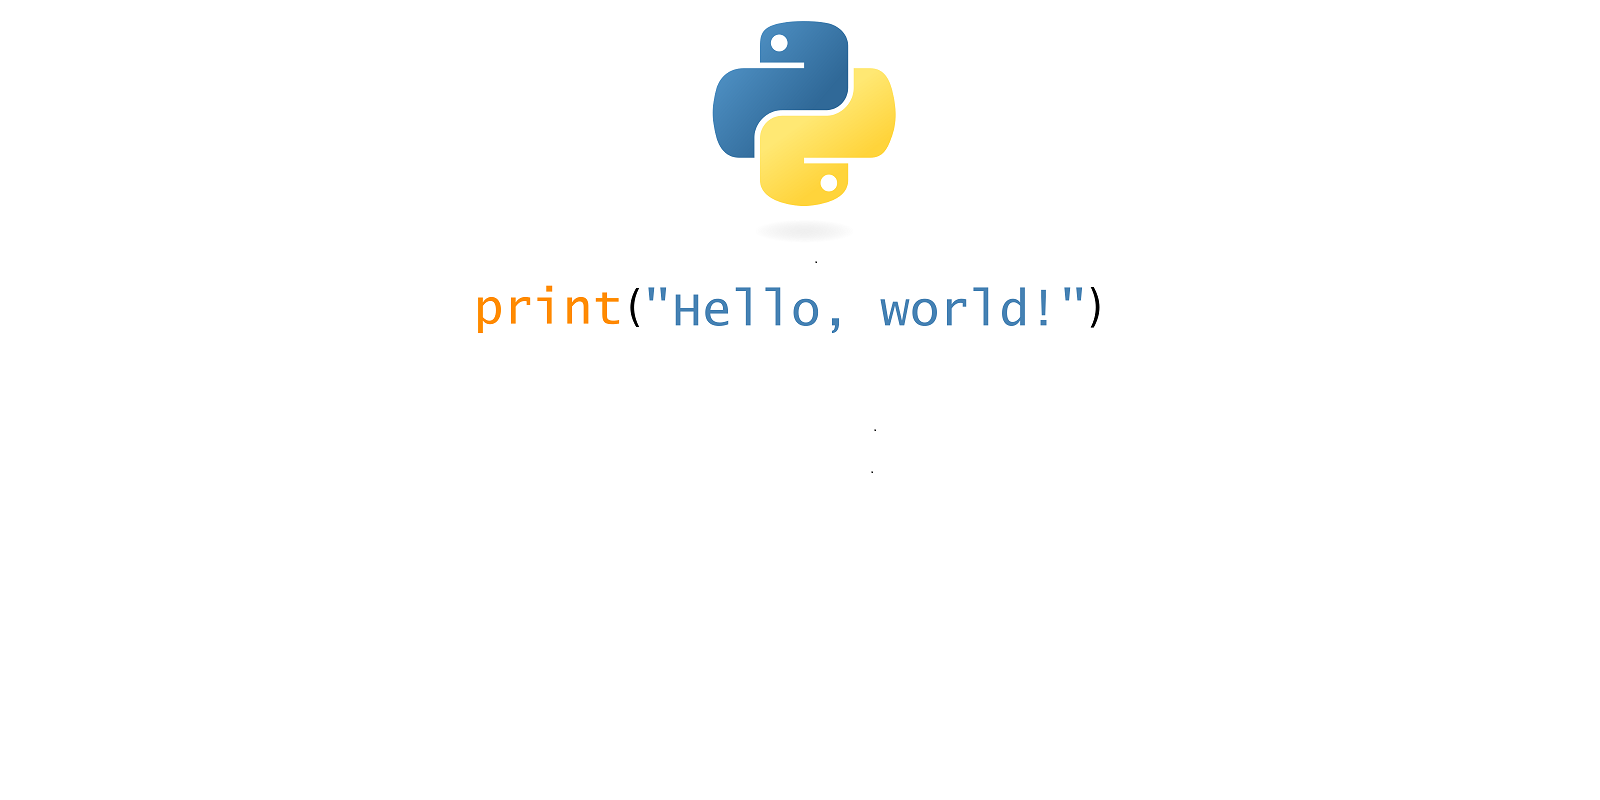
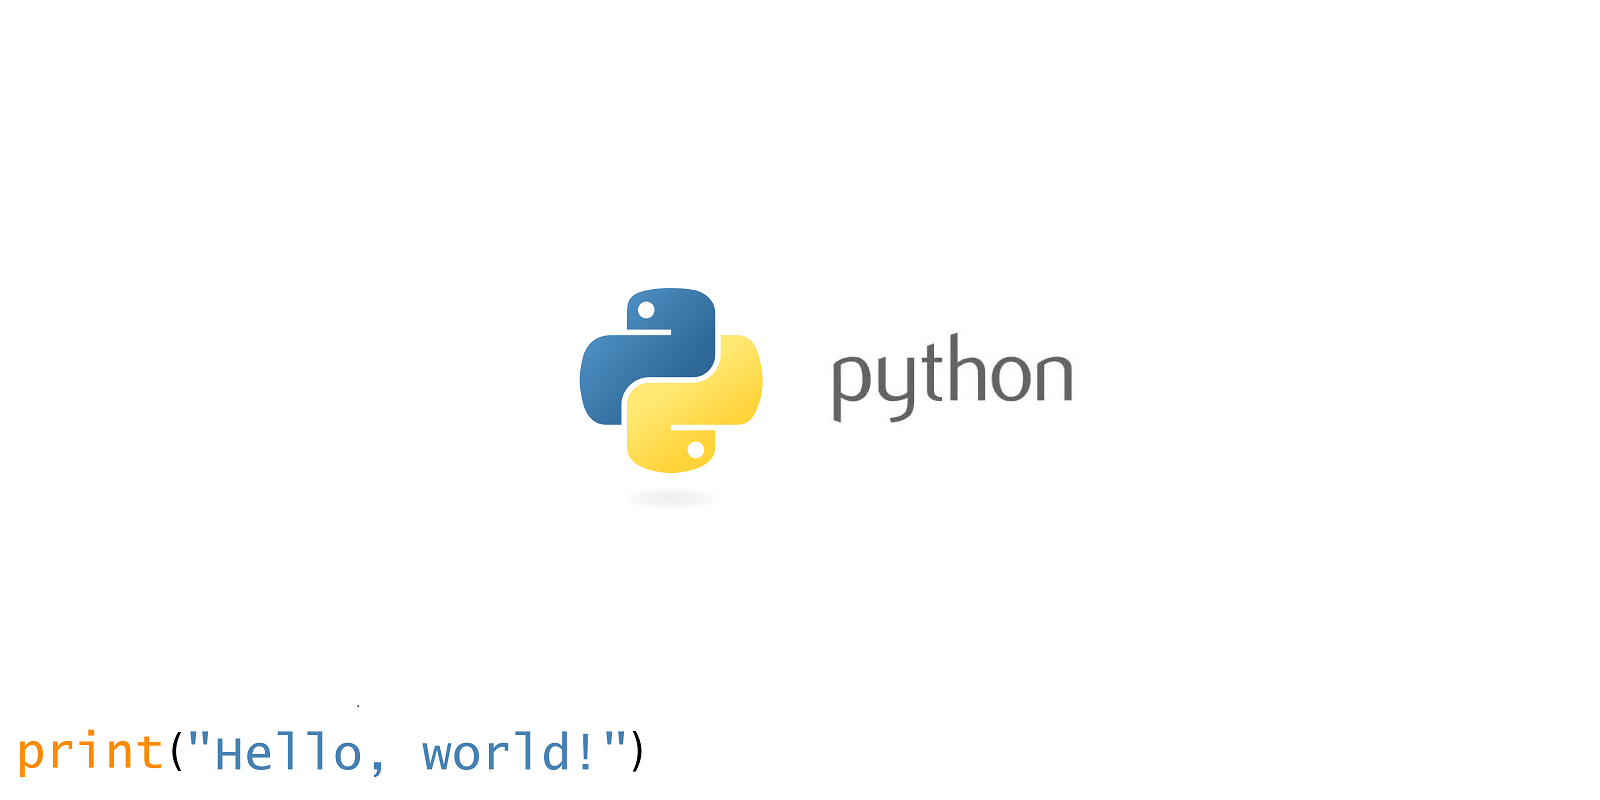
add post

Changed region(s): [[0.2812, 0.3438, 0.6875, 0.5938], [0.4375, 0.0312, 0.5625, 0.2812], [0.0, 0.9062, 0.4062, 0.9688]]

diff --git a/_posts/PyTorchTP/2018-03-08-PyTorch Taiwan.md b/_posts/PyTorchTP/2018-03-08-PyTorch Taiwan.md
@@ -1,0 +1,78 @@
+---
+layout: article
+title: "PyTorch Taipei 2018"
+modified:
+categories: articles
+excerpt: ""
+tags: [PyTorchTPMenu]
+image:
+  feature: 
+  teaser: PyTorchTP/pytp1.jpg
+  thumb: PyTorchTP/pytp1.jpg
+date: 2018-03-09
+---
+
+### 緣起: PyTorch Taiwan
+
+[PyTorch Taiwan](https://www.facebook.com/groups/2027602154187130/){:target="_blank"}是[Marcel Wang](https://www.linkedin.com/in/marcel-wang-3a988b7a/){:target="_blank"}先生為促進台灣深度學習發展，在網路上號召成立的深度學習讀書會，目前有[PyTorch Taipei](http://hemingwang.blogspot.tw/2018/01/pytorchpytorch-taipei_20.html){:target="_blank"}和[PyTorch Hsinchu](http://hemingwang.blogspot.tw/2018/01/pytorchpytorch-hsinchu.html){:target="_blank"}兩個子分會。
+
+### PyTorch Taipei
+時間: 每週四19:00~21:00
+
+內容: 
+
+1. 經典論文導讀
+ - 預計進行18周(共19篇論文)
+ - 參加者建議已具備ML/DL基礎知識
+ 
+2. PyTorch實作
+ - 由台大CS+X計畫負責人[Pecu老師](https://github.com/pecu){:target="_blank"}及其團隊負責帶領
+ - [進度表](https://github.com/pecu/PyTorch_CSX){:target="_blank"}
+
+地點: 台灣大學普通教學館305教室
+<div class="mapouter"><div class="gmap_canvas"><iframe width="600" height="350" id="gmap_canvas" src="https://maps.google.com/maps?q=普通教學館&t=&z=17&ie=UTF8&iwloc=&output=embed" frameborder="0" scrolling="no" marginheight="0" marginwidth="0"></iframe></div><a href="https://www.maps-erstellen.de"></a><style>.mapouter{overflow:hidden;height:350px;width:600px;}.gmap_canvas {background:none!important;height:350px;width:600px;}</style></div>
+
+### 論文導讀進度表(附論文連結)
+
+| CNN                            | Pre R-CNN      | R-CNN             |
+| ------------------------------ |--------------- | ----------------- |
+| 3/08 [LeNet][1]{:target="_blank"} & [AlexNet][2]{:target="_blank"} | 4/26 [PreVGGNet][8]{:target="_blank"} | 6/07 [R-CNN][14]{:target="_blank"}        |
+| 3/15 [ZFNet][3]{:target="_blank"}                | 5/03 [SVM][9]{:target="_blank"}       | 6/14 [SPPNet][15]{:target="_blank"}       |
+| 3/22 [NIN][4]{:target="_blank"}                  | 5/10 [SMO][10]{:target="_blank"}       | 6/21 [Fast R-CNN][16]{:target="_blank"}   |
+| 3/29 [GoogLeNet][5]{:target="_blank"}            | 5/17 [DPM][11]{:target="_blank"}       | 6/28 [Faster R-CNN][17]{:target="_blank"} |
+| 4/12 [VGGNet][6]{:target="_blank"}               | 5/24 [SS][12]{:target="_blank"}        | 7/05 [YOLO][18]{:target="_blank"}         |
+| 4/19 [SqueezeNet][7]{:target="_blank"}           | 5/31 [FCN][13]{:target="_blank"}       | 7/12 [SSD][19]{:target="_blank"}          |
+
+
+[1]: http://yann.lecun.com/exdb/publis/pdf/lecun-98.pdf
+[2]: http://papers.nips.cc/paper/4824-imagenet-classification-with-deep-convolutional-neural-networks.pdf 
+[3]: https://arxiv.org/pdf/1311.2901.pdf 
+[4]: https://arxiv.org/pdf/1312.4400.pdf 
+[5]: http://openaccess.thecvf.com/content_cvpr_2015/papers/Szegedy_Going_Deeper_With_2015_CVPR_paper.pdf
+[6]: https://arxiv.org/pdf/1409.1556/ 
+[7]: https://arxiv.org/pdf/1602.07360.pdf 
+[8]: http://citeseerx.ist.psu.edu/viewdoc/download?doi=10.1.1.481.4406&rep=rep1&type=pdf
+[9]: http://citeseerx.ist.psu.edu/viewdoc/download?doi=10.1.1.21.3818&rep=rep1&type=pdf
+[10]: https://www.microsoft.com/en-us/research/wp-content/uploads/2016/02/tr-98-14.pdf
+[11]: http://vc.cs.nthu.edu.tw/home/paper/codfiles/vclab/201402141243/Object-Detection-with-Discriminatively-Trained-Part-Based-Models.pdf
+[12]: https://ivi.fnwi.uva.nl/isis/publications/2013/UijlingsIJCV2013/UijlingsIJCV2013.pdf
+[13]: https://www.cv-foundation.org/openaccess/content_cvpr_2015/app/2B_011.pdf
+[14]: https://www.cv-foundation.org/openaccess/content_cvpr_2014/papers/Girshick_Rich_Feature_Hierarchies_2014_CVPR_paper.pdf?spm=5176.100239.blogcont55892.8.pm8zm1&file=Girshick_Rich_Feature_Hierarchies_2014_CVPR_paper.pdf
+[15]: https://arxiv.org/pdf/1406.4729.pdf
+[16]: http://openaccess.thecvf.com/content_iccv_2015/papers/Girshick_Fast_R-CNN_ICCV_2015_paper.pdf
+[17]: http://papers.nips.cc/paper/5638-faster-r-cnn-towards-real-time-object-detection-with-region-proposal-networks.pdf
+[18]: https://www.cv-foundation.org/openaccess/content_cvpr_2016/papers/Redmon_You_Only_Look_CVPR_2016_paper.pdf
+[19]: https://arxiv.org/pdf/1512.02325.pdf
+
+P.S. 4/5 清明連假 暫停一次
+
+### 每周整理
+
+Week1:
+
+* [LeNet](/articles/LeNet){:target="_blank"}
+* [AlexNet](/articles/AlexNet){:target="_blank"}
+* PyTorch
+  - [Fundamentals of PyTorch Tensor](https://github.com/mattwang44/PyTorch_Taipei/blob/master/PyTorch%20Tutorial/1.%20Fundamentals%20of%20PyTorch%20Tensor.ipynb){:target="_blank"}
+  - Variables & Gradients (Linear Regression Implementation)
+  - Neural Networks & LeNet Implementation for MNIST Dataset

diff --git a/_posts/PyTorchTP/2018-03-010-AlexNet.md b/_posts/PyTorchTP/2018-03-010-AlexNet.md
@@ -1,0 +1,68 @@
+---
+layout: article
+title: "PyTorch Taipei week1: AlexNet"
+modified:
+categories: articles
+excerpt: ""
+tags: [PyTorchTP, DL]
+image:
+  feature:
+  teaser:
+  thumb: 
+date: 2018-03-10
+---
+
+
+# AlexNet
+講者: Young Hu <br>
+Blog: https://medium.com/@WhoYoung99/alexnet-架構概述-988113c06b4b 
+論文連結: [Krizhevsky, Alex, Ilya Sutskever, and Geoffrey E. Hinton. "Imagenet classification with deep convolutional neural networks." Advances in neural information processing systems. 2012.](http://papers.nips.cc/paper/4824-imagenet-classification-with-deep-convolutional-neural-networks.pdf)
+重要貢獻為證明深層的訓練具有效果。
+## 訓練資料
+ImageNet為大型辨識資料集，共1500萬張影像，類別包含22000種。AlexNet在ImageNet Large Scale Visual Recognition Challenge (ILS-VRC)比賽中勝出。
+
+
+## 架構 (論文中的section3~5)
+論文中依照重要程度列出他認為這個架構能在比賽中勝出的關鍵。
+
+### 3.
+
+#### 3.1 使用ReLU
+一階微分經過訓練之後趨近於0
+
+Softplus為ReLU之可微分的改良版
+
+使用ReLU，輸出層用Softmax
+
+#### 3.2 using GPUs
+兩張Nvidia GTX 580的平行計算
+
+#### 3.3 Local Response Normalization (LRN)
+
+
+#### 3.4 Overlapping Pooling
+解決Max Pooling損失太多訊號的缺點，使用stride=1的Max Pooling
+※但有研究顯示效果並沒有非常好
+
+
+### 4. Avoid Overfitting
+
+#### 4.1 Data Aug
+1. 256x256隨機裁切224224
+2. PCA
+ 
+#### 4.2 Dropout
+
+
+
+Q: Why using Softmax in the output layer?
+A: It gives the final result as the Probability?
+
+Q: ReLU?
+A: It mimics the behaviour of (Biology) neuron. It gives positive output when input is larger than threshold.
+
+Leaky ReLU
+
+Q: When to using Dropout?
+A: When you get a decent performance of input 
+In this paper, the dropout ratio is 0.5.

diff --git a/Notes/index.md b/Notes/index.md
@@ -15,20 +15,23 @@ image:
 <div class="tile">
   <a href="{{ site.url }}/notes/PyTorchTaiwan">
     <img src="{{ site.url }}/images/pytorch.jpg">
-    <p class="post-excerpt">PyTorch Taiwan: Weekly meeting focusing on Deep Learning</p>
+    <h2 class="post-title">PyTorch Taipei 2018</h2>
+    <p class="post-excerpt">深度學習論文及PyTorch實作會</p>
   </a>
 </div><!-- /.tile -->
 
 <div class="tile">
   <a href="{{ site.url }}/notes/MATLAB">
     <img src="{{ site.url }}/images/MATLAB.jpg">
-    <p class="post-excerpt">An expensive software but totally free for students</p>
+    <h2 class="post-title">MATLAB</h2>
+    <p class="post-excerpt">An expensive computational software but totally free for students</p>
   </a>
 </div><!-- /.tile -->
 
 <div class="tile">
   <a href="{{ site.url }}/notes/Python">
     <img src="{{ site.url }}/images/Python.jpg">
+    <h2 class="post-title">Python</h2>
     <p class="post-excerpt">It seems that everything can be connected with Python now</p>
   </a>
 </div><!-- /.tile -->
@@ -36,6 +39,7 @@ image:
 <div class="tile">
   <a href="{{ site.url }}/notes/ML">
     <img src="{{ site.url }}/images/ML.jpg">
+    <h2 class="post-title">Machine Learning</h2>
     <p class="post-excerpt">Machine Learning course notes (Prof. Hsuan-Tien Lin)</p>
   </a>
 </div><!-- /.tile -->

diff --git a/_posts/PyTorchTP/2018-03-09-LeNet.md b/_posts/PyTorchTP/2018-03-09-LeNet.md
@@ -1,0 +1,52 @@
+---
+layout: article
+title: "PyTorch Taipei 2018 week1: LeNet"
+modified:
+categories: articles
+excerpt: ""
+tags: [PyTorchTP, DL]
+image:
+  feature:
+  teaser: PyTorchTP/LeNet5.png
+  thumb: PyTorchTP/LeNet5.png
+date: 2018-03-09
+---	
+
+# LeNet
+
+## Backprop
+1998年由Yann LeCun 首度使用 backpropagation (逆向傳播法)來進行手寫字辨識
+
+## Gradient Descent Method
+
+$$ W_k = W_{k-1} - \eta\frac{\partial E(W)}{\partial W_k} $$
+
+其中$W$是參數矩陣，$eta$是learning rate(決定學習效率)
+
+## LeNet-5
+Pic-LeNet-5
+
+Input:輸入為32x32的圖
+C1: Convolution
+S2: subsamping
+
+C3:
+S4:
+C5: 
+F6:  
+
+Output:
+一般FC為 $X_n=\sigma(w\bullet x_n+b)
+
+RBF(Euclidean Radius Basis function)
+$$ y_i = \sum_j(x_i-w_ij)^2 $$
+
+Loss Function:
+1. MSE(mean squared error)
+2. Cross-entropy
+
+
+Q: 原作有沒有Zero-padding?
+A: 沒有，沒有zero-padding會造成輸入圖片邊緣的資料被參考的次數較少，所以只選取手寫字位於圖片中間的。
+
+1. 彭駿達 (國立中央大學研究助理) [講解投影片](https://hackmd.io/p/BkxYFCnOM)

diff --git a/index.md b/index.md
@@ -2,14 +2,14 @@
 layout: home
 permalink: /
 image:
-  feature: wood-texture-1600x800.jpg
+  feature: taipei-1851948_1920.jpg
 ---
 
 <div class="tiles">
 
 <div class="tile">
   <h2 class="post-title">I come from Taiwan</h2>
-  <p class="post-excerpt"> The most populous country and largest economy that is not a member of the UN. It has a shape like a sweet potato on the map (Look at my favicon!).</p>
+  <p class="post-excerpt"> A beautiful country in East Asia. The most populous country and largest economy that is not a member of the UN.</p>
 </div><!-- /.tile -->
 
 <div class="tile">
@@ -23,7 +23,7 @@ image:
 </div><!-- /.tile -->
 
 <div class="tile">
-  <h2 class="post-title">Future Plan</h2>
+  <h2 class="post-title">Future Plans</h2>
   <p class="post-excerpt">Plan to begin pursuing Ph.D. degree abroad couple years later and the devote myself to the Taiwanese industrial. </p>
 </div><!-- /.tile -->
 

diff --git a/notes/PyTorchTaiwan/index.md b/notes/PyTorchTaiwan/index.md
@@ -1,6 +1,6 @@
 ---
 layout: topic
-title: "PyTorch Taiwan"
+title: "PyTorch Taipei"
 date: 2018-02-28T11:39:03-04:00
 modified:
 #excerpt: ""
@@ -11,7 +11,14 @@ image:
 ---
 
 <div class="tiles">
-{% for post in site.tags.PyTorch_Taiwan %}
+{% for post in site.tags.PyTorchTPMenu %}
+  {% include post-grid.html %}
+{% endfor %}
+</div><!-- /.tiles -->
+
+
+<div class="tiles">
+{% for post in site.tags.PyTorchTP %}
   {% include post-grid.html %}
 {% endfor %}
 </div><!-- /.tiles -->

diff --git a/notes/DL/index.md b/notes/DL/index.md
@@ -1,17 +1,17 @@
 ---
 layout: topic
-title: "MATLAB"
+title: "Deep Learning"
 date: 2018-02-28T11:39:03-04:00
 modified:
 #excerpt: ""
 tags: []
 image:
-  feature: MATLAB-header.jpg
+  feature: DL-header.jpg
 
 ---
 
 <div class="tiles">
-{% for post in site.tags.MATLAB %}
+{% for post in site.tags.DL %}
   {% include post-grid.html %}
 {% endfor %}
 </div><!-- /.tiles -->

diff --git a/notes/Python/index.md b/notes/Python/index.md
@@ -6,7 +6,7 @@ modified:
 #excerpt: ""
 tags: []
 image:
-  feature: 2.jpg #python-header
+  feature: python-header1.jpg 
 
 ---
 
